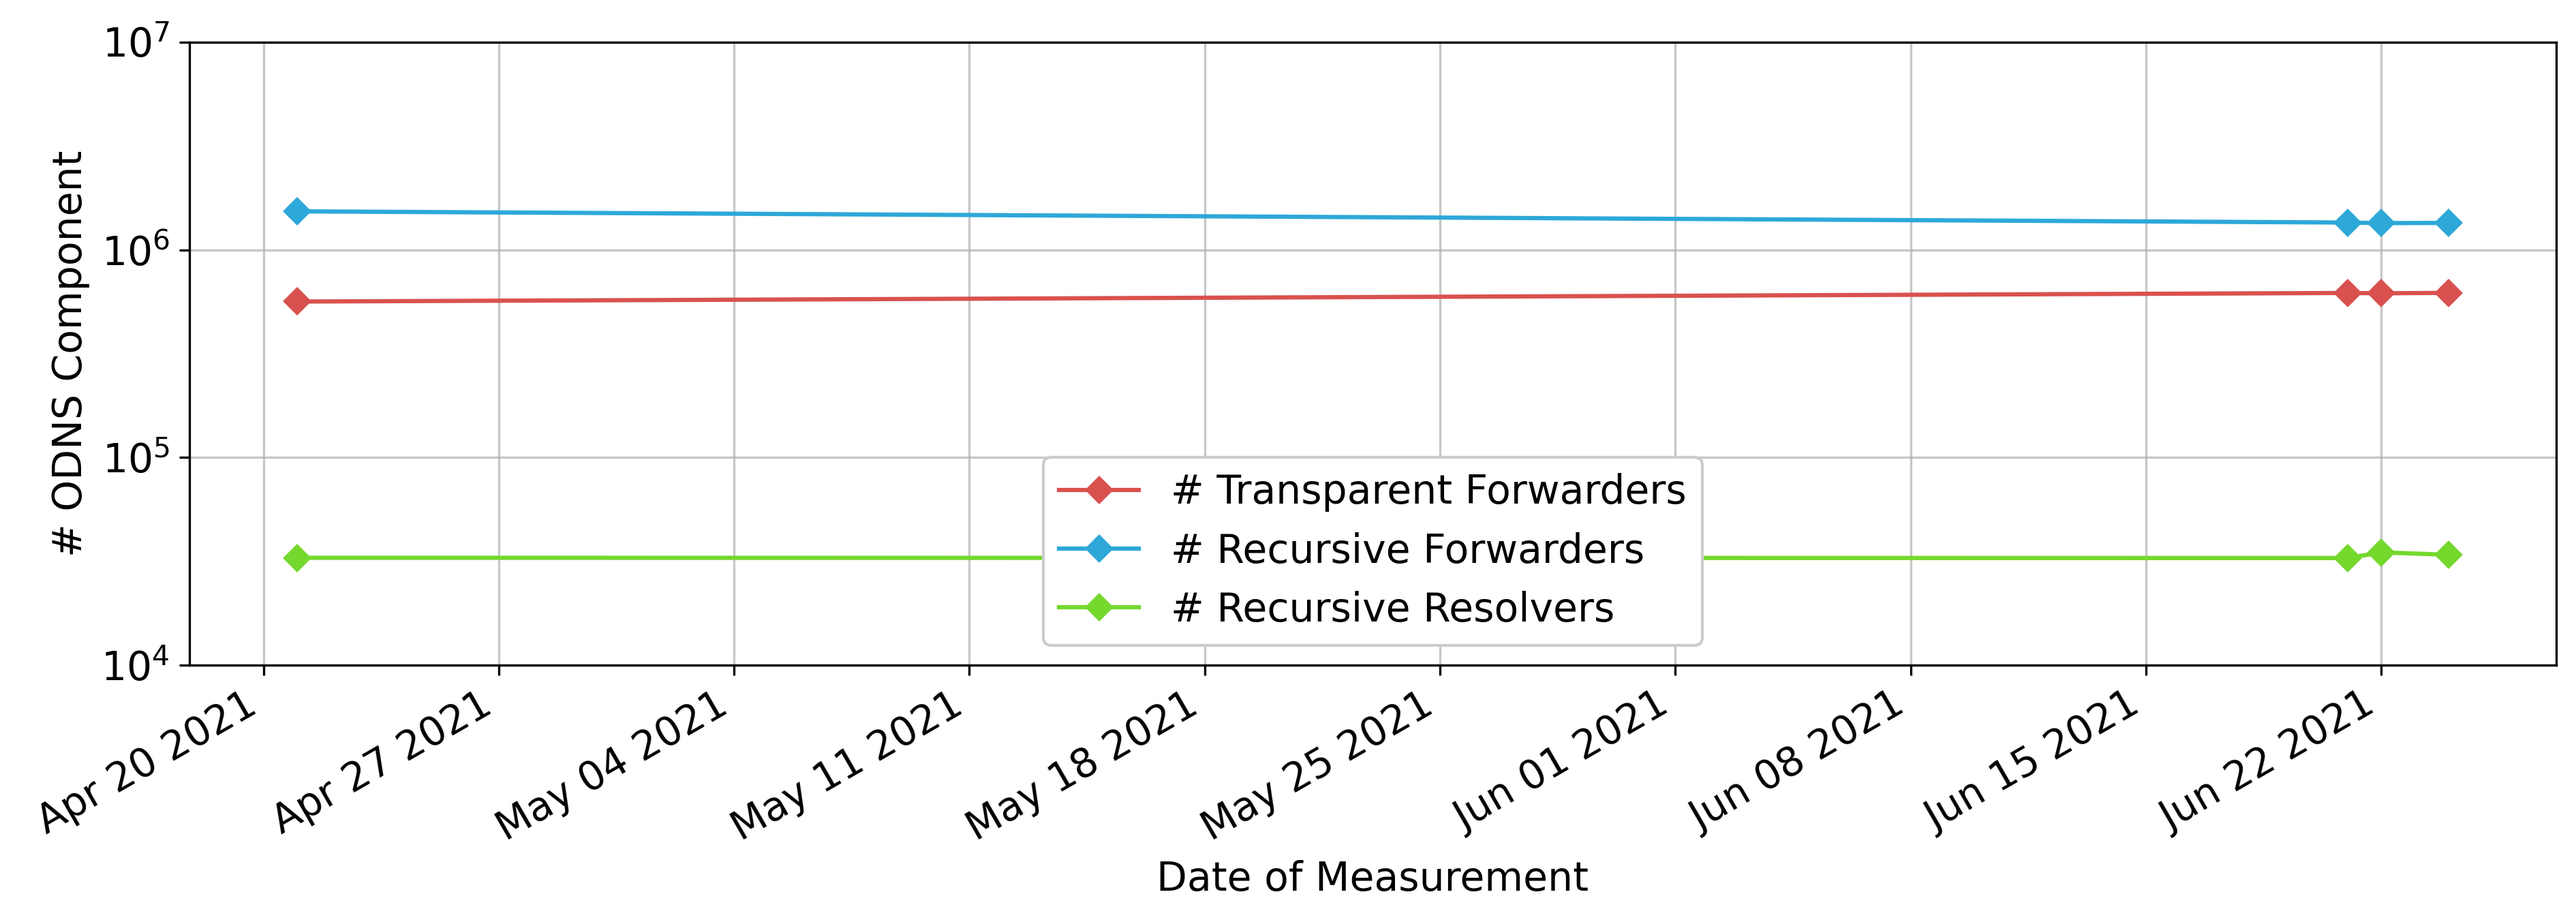
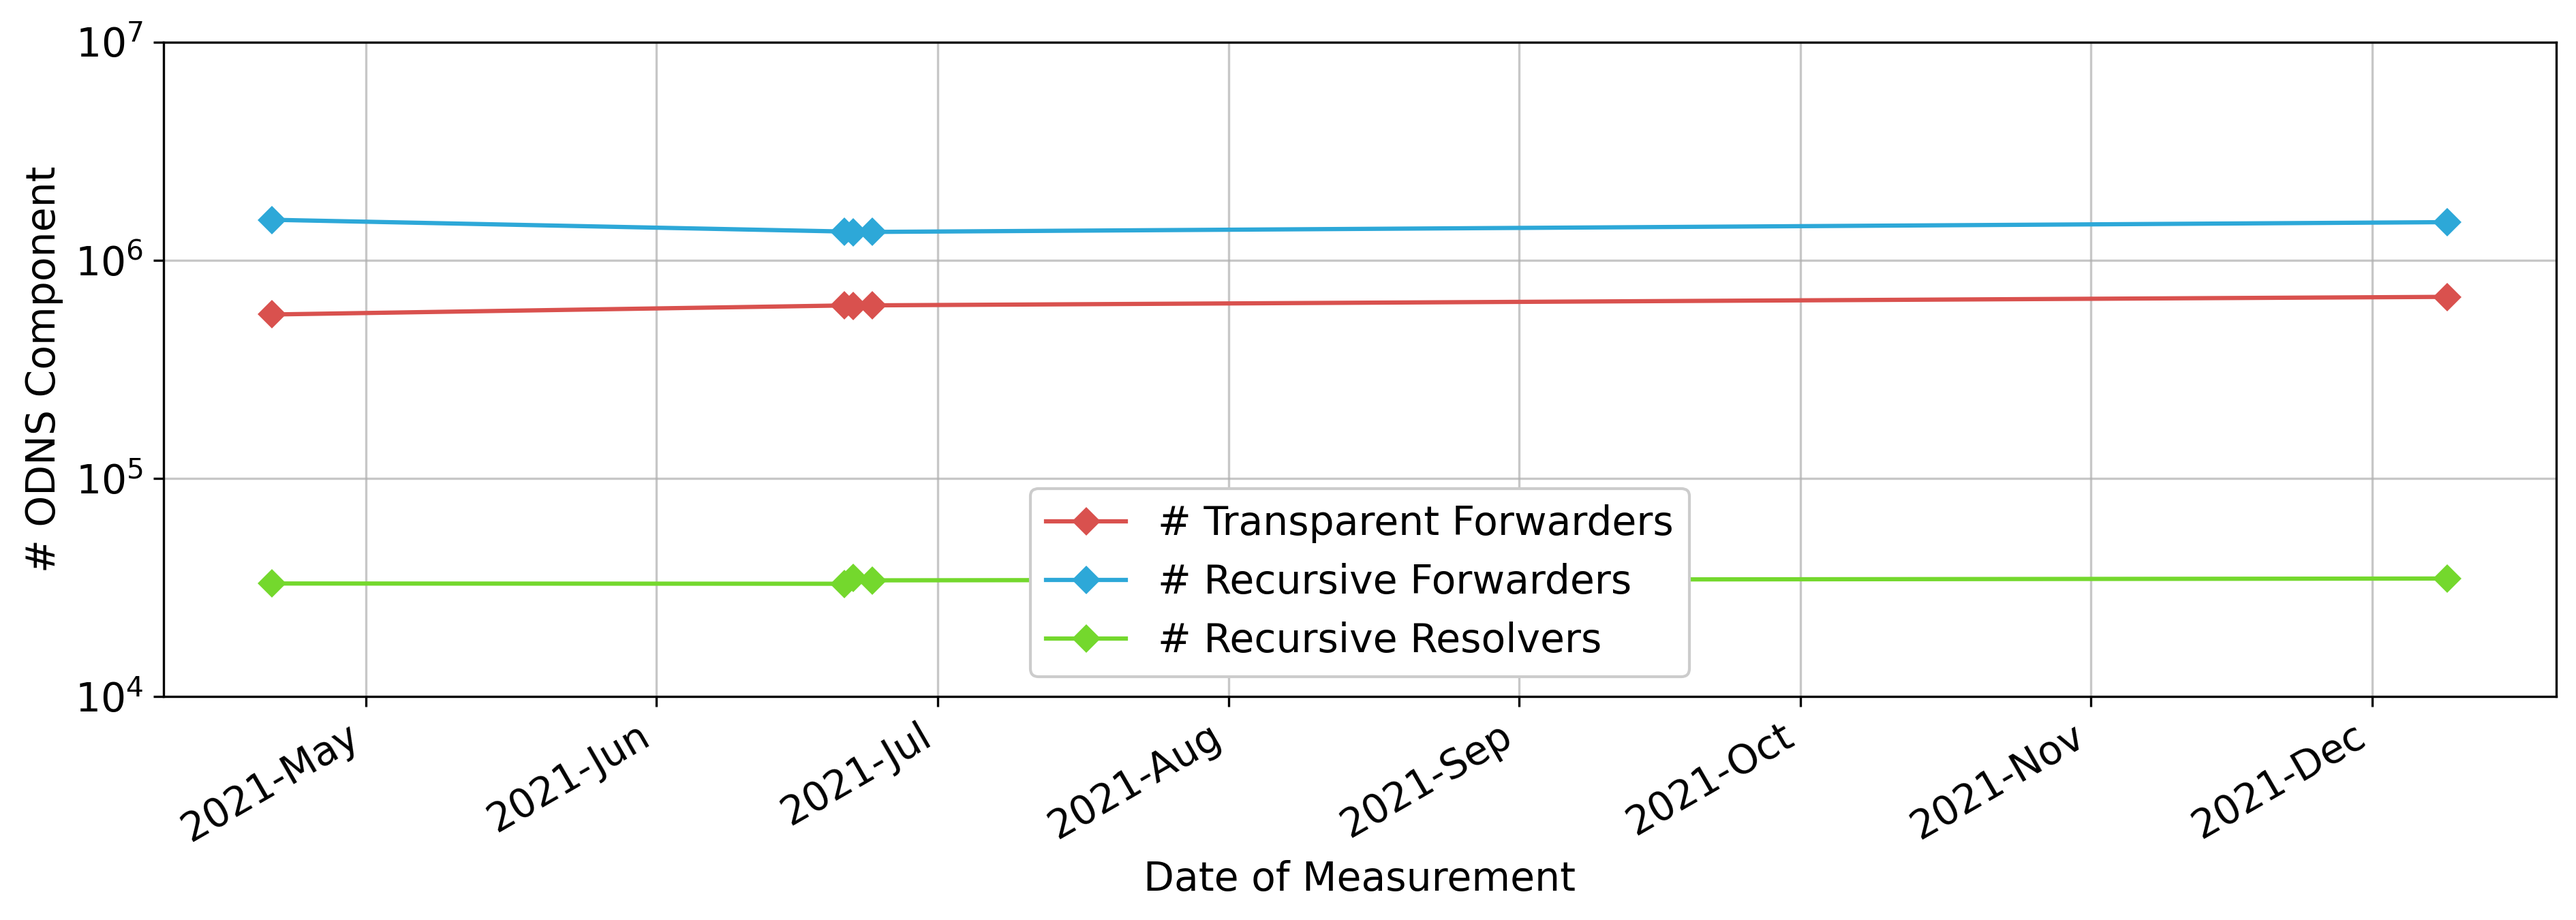
new scan data

diff --git a/data.md b/data.md
@@ -3,6 +3,22 @@ layout: base
 title:  "Transparent DNS Forwarders Measurement Results"
 datatable: true
 ---
+
+<main id="last_scan" class="row row-cols-sm-1 px-3 mb-3 mt-5">
+    <div class="box h-100 w-100">
+        <div class="box-title">Scanning Continues</div>
+            <div class="row px-3 mb-3 align-items-stretch">
+                <div class="col-sm-12">
+                    <p class="fs-4 text-justify">
+                    Last successfull measurement: <b><u>December 09, 2021</u></b>
+                    </p>
+                </div>
+            </div>
+    </div>
+</main>
+
+
+
 <main id="odns_components" class="row row-cols-sm-1 px-3 mb-3 mt-5">
     <div class="box h-100 w-100">
         <div class="box-title">Distribution of ODNS Components over the World</div>
